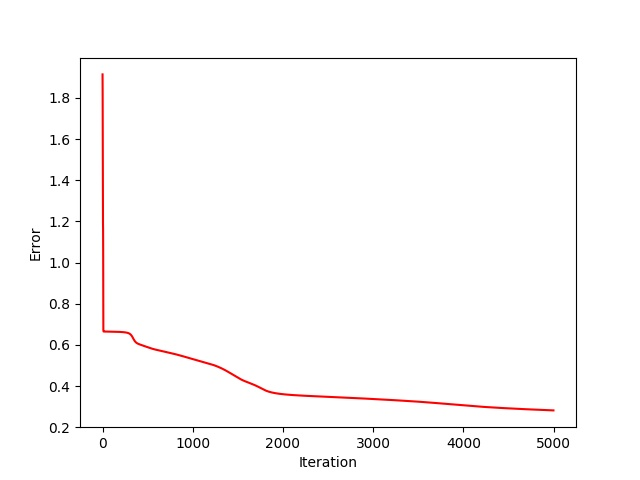
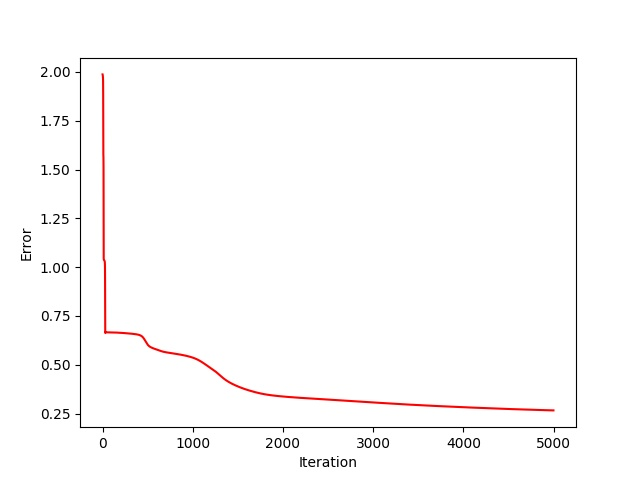
15-11-61 Update-0306

diff --git a/templates/index.html b/templates/index.html
@@ -40,20 +40,32 @@
 			</div>
 		</div>
 		<div class="row form-position">
-			<div class="col bounding-box text-center">
+			<div class="col text-center">
 				<h3>แผนภูมิวงกลมแสดงร้อยละของคำเชิงต่าง ๆ</h3>
-				<div id="canvas-holder" class="bounding-box display-pie">
+				<div id="canvas-holder" class="display-pie">
 					<canvas id="chart-area" style="width: 400px; height: 400px; margin: auto;"></canvas>
 				</div>
 			</div>
 			<div class="col">
 				<div class="row">
-					<h3>คำรุนแรง</h3><br>
-					<h4 id="negative" style="color:red;"></h4>
+					<div class="col">
+						<div class="row">
+							<h3>คำรุนแรง</h3>	
+						</div>
+						<div class="row">
+							<h4 id="negative" style="color:red;"></h4>
+						</div>
+					</div>
 				</div>
 				<div class="row form-position">
-					<h3>คำสร้างสรรค์</h3><br>
-					<h4 id="positive" style="color:green;"></h4>
+					<div class="col">
+						<div class="row">
+							<h3>คำสร้างสรรค์</h3>
+						</div>
+						<div class="row">
+							<h4 id="positive" style="color:green;"></h4>
+						</div>
+					</div>
 				</div>
 			</div>
 		</div>

diff --git a/static/css/style.css b/static/css/style.css
@@ -8,7 +8,7 @@
 
 .bounding-box{
 	border-style: solid;
-	border-width: 3px;
+	border-width: 1px;
 }
 
 .box-center {

diff --git a/resources/MLP_BP_PUB.py b/resources/MLP_BP_PUB.py
@@ -40,9 +40,7 @@ def find_word(message):
                 points += float(word[1])
                 for k in range(j, j + len(word[0])):
                     idx.append(k)
-    amount[0] = float((amount[0] * 100.0) / len(message))
-    amount[1] = float((amount[1] * 100.0) / len(message))
-    result.append([len(message)/max_sentense, amount[0], amount[1], points, wordtmp])
+    result.append([len(message), amount[0], amount[1], points, wordtmp])
     return result
 
 # Neural Activation
@@ -71,7 +69,6 @@ def forward_propagate(network, row):
 # Predict
 def predict(network, row):
     outputs = forward_propagate(network, row)
-    print(outputs)
     return outputs.index(max(outputs))
 
 # Load Weights

diff --git a/resources/SVM_PUB.py b/resources/SVM_PUB.py
@@ -5,7 +5,9 @@ from sklearn import datasets
 from sklearn import preprocessing
 import math
 import json
+
 from resources import cfg
+# import cfg
 import numpy as np 
 import matplotlib.pyplot as plt
 
@@ -26,6 +28,16 @@ with open(cwd + 'sentensesData', 'r') as dataset_file:
         tmp[len(tmp)-1] = int(tmp[len(tmp)-1])
         train_data.append(tmp[:len(tmp)-1])
         train_target.append(tmp[-1])
+tmp_data = []
+tmp_data = train_data.copy()
+
+def normalize_data(data):
+    new_tmp_data =tmp_data
+    new_tmp_data.append(data)
+    new_tmp_data = preprocessing.scale(new_tmp_data)
+    return new_tmp_data[-1]
+
+
 train_data = preprocessing.scale(train_data)
 # Test data
 train_amount = 75

diff --git a/server.py b/server.py
@@ -14,8 +14,11 @@ def compute(raw_data):
 	# Return [STATUSE, BAD_WORD_PERCENT, GOOD_WORD_PERCENT, RESULT]
 	data = MLP_BP_PUB.find_word(raw_data)
 	data = data[0]
-	result = MLP_BP_PUB.predict(MLP_BP_PUB.load_weights(), data[:-1])
-	svm_res = SVM_PUB.svm_test(data[:-1])
+	new_data = data[:-1].copy()
+	new_data = SVM_PUB.normalize_data(new_data)
+	result = MLP_BP_PUB.predict(MLP_BP_PUB.load_weights(), new_data)
+	svm_res = SVM_PUB.svm_test(new_data)
+	print(new_data)
 	text = ['เชิงลบ', 'เชิงบวก', 'ปกติ']
 	return json.dumps({'status':'OK', 'data':data, 'result_mlp':text[result], 'result_svm':text[svm_res]})
 

diff --git a/resources/MLP_BP.py b/resources/MLP_BP.py
@@ -145,7 +145,7 @@ dataset = dataset[:train_amount]
 
 n_inputs = len(dataset[0]) - 1
 n_outputs = len(set([row[-1] for row in dataset]))
-network = initialize_network(n_inputs, 7, 7, n_outputs)
+network = initialize_network(n_inputs, 11, 11, n_outputs)
 learning_rate = 0.05
 epoch = 5000
 train_network(network, dataset, learning_rate, epoch, n_outputs)
